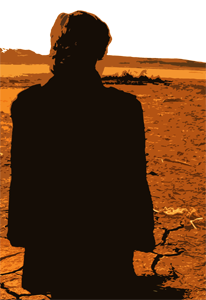
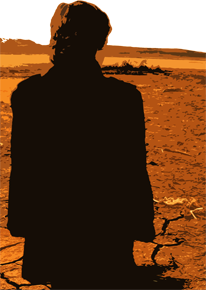
home image

Changed region(s): [[0.0, 0.0, 1.0, 0.9931]]

diff --git a/public/home.html b/public/home.html
@@ -26,7 +26,8 @@ by-->
         <link rel="icon" type="image/png" href="favicon.png" />
         <!---->
         <!--JQM : -->
-        <link rel="stylesheet" href="http://code.jquery.com/mobile/1.3.2/jquery.mobile-1.3.2.min.css" />
+        <link rel="stylesheet" href="http://code.jquery.com/mobile/1.3.2/jquery.mobile-1.3.2.min.css"
+        />
         <script src="//ajax.googleapis.com/ajax/libs/jquery/2.0.2/jquery.min.js"></script>
         <script src="http://code.jquery.com/mobile/1.3.2/jquery.mobile-1.3.2.min.js"></script>
         <script src="/JS/mustache.min.js"></script>
@@ -58,7 +59,9 @@ by-->
                 <h1></h1>
                 <h1 style="font-size:3.5em;text-align: center;margin:0 auto;">Rauks.org jeu de rôles Electropunk</h1>
                 <p></p>
-                <p style="width:50%;margin:0 auto;text-align:justify;">Vous serez un Rauks, un mercenaire avec une liberté extrême dans la réalisation
+                <p style="width:50%;margin:0 auto;text-align:justify;">
+                    <img src="IMG/COUCHE_DE_SOLEIL.png" TITLE="Couché de soleil" alt="Couché de soleil sur le desert."
+                    height="290" width="206" style="float:left;margin-right:1em;"><br><br><br>Vous serez un Rauks, un mercenaire avec une liberté extrême dans la réalisation
                     de ses missions.
                     <br>Plongé dans un monde dominé par un empire bureaucratique prônant l’égalité
                     entre deux races du genre homo : les hommes et les orcs. Un monde que l’électronique
@@ -68,10 +71,6 @@ by-->
                     aux rolistes aguerris. Tout est fait pour rendre les règles faciles à apprendre
                     et à utiliser afin de se concentrer sur l'essentiel : Le jeu de rôle en
                     lui même.</p>
-                <div style="margin:0 auto;text-align:center;">
-                    <img src="IMG/COUCHE_DE_SOLEIL.png" TITLE="Couché de soleil" alt=" Couché de soleil sur le desert."
-                    height=300 width=206>
-                </div>
             </div>
         </div>
         <!--</page-->
